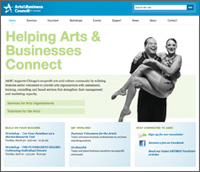
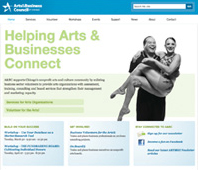
Cycle plugin styled

diff --git a/css/styles.css b/css/styles.css
@@ -1,7 +1,61 @@
+body{
+	padding:10px;
+	font:normal 62.5% "Lucida Grande", Arial, sans-serif;
+	background:#fff;
+	color:#fff;
+}
+
+#cycle_area{
+	font-size:1.3em;
+	border:5px solid #666;
+	width:550px;
+	border-radius:10px;
+	-webkit-border-radius:10px;
+	-moz-border-radius:10px;
+	-khtml-border-radius:10px;
+	background:rgba(0,0,0,0.8);
+}
+
+#cycle_area div{
+	padding:10px;
+}
+
+#nav_buttons{
+	padding:10px;
+	font-size:1.2em;
+	overflow:hidden;
+}
+
+a:link, a:visited{
+	color:#71e6b8;
+	text-decoration:none;
+}
+#nav_buttons a{
+	display:block;
+	float:left;
+	padding:5px 10px;
+	margin:0 10px 10px 0;
+	background:#999;
+	color:#333;
+	border:1px solid #fff;
+}
+
+a:hover{
+	text-decoration:underline;
+}
+
+#nav_buttons a:hover, #nav_buttons a.activeSlide{
+	background:#ddd;
+	border-color:#333;
+	color:#000;
+	text-decoration:none;
+}
+
 img{
 	float:left;
-	margin:0 10px 10px 0;
+	margin:0 10px 0 0;
+	border:2px solid #00b1f3;
 }
 h2, h3{
-	margin:0;
+	margin:0 0 10px;
 }

diff --git a/demo.html b/demo.html
@@ -25,14 +25,16 @@
 		</div><!-- /cycle_area-->
 		
 		<div id="nav_buttons">
-			<a href="#" id="prev">&#171; Prev</a>&nbsp;
+			<a href="#" id="prev">&#171; Prev</a>
+			<div id="pager"></div>
 			<a href="#" id="next">Next &#187;</a>
 		</div>
 	
-	<script src="http://www.google.com/jsapi"></script>
-	<script>
-	  google.load('jquery','1.4.2');
-	</script>
+  <!-- <script src="http://www.google.com/jsapi"></script>
+  <script>
+    google.load('jquery','1.4.2');
+  </script> -->
+	<script src="js/jquery-1.3.2.min.js"></script>
 	<script src="js/jquery.easing.1.3.js"></script>
 	<script src="js/jquery.cycle.all.js"></script>
 	<script src="js/portfolio.js"></script>

diff --git a/js/portfolio.js b/js/portfolio.js
@@ -1,10 +1,13 @@
 $(document).ready(function(){
   $('#cycle_area').cycle({
 		fx: 'scrollHorz',
-		speed: 'fast',
+		speed: 1000,
+		timeout: 5500,
 		prev: '#prev',
 		next: '#next',
-		easing: 'easeInOutCubic'				
+		pager: '#pager',
+		easing: 'easeInOutCubic',
+		pause: true			
 	});			
 		
 });
